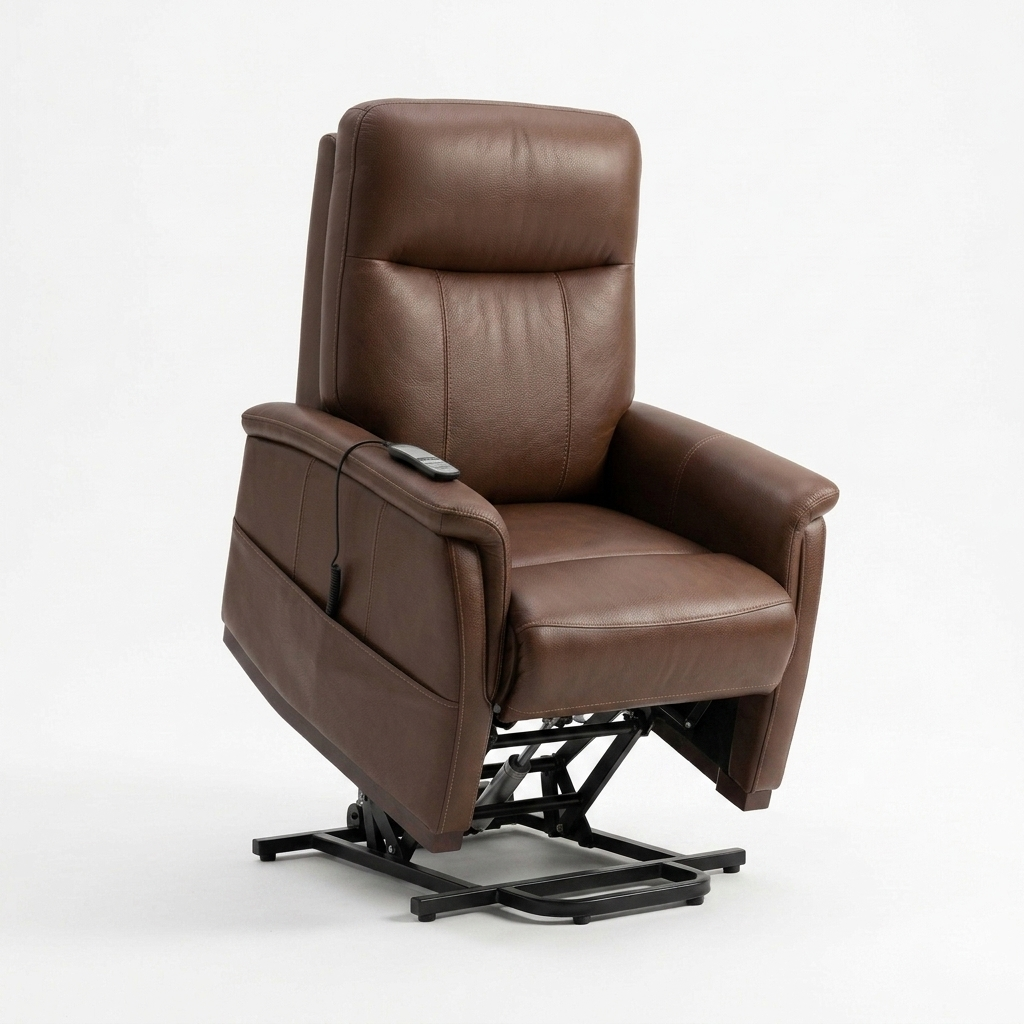
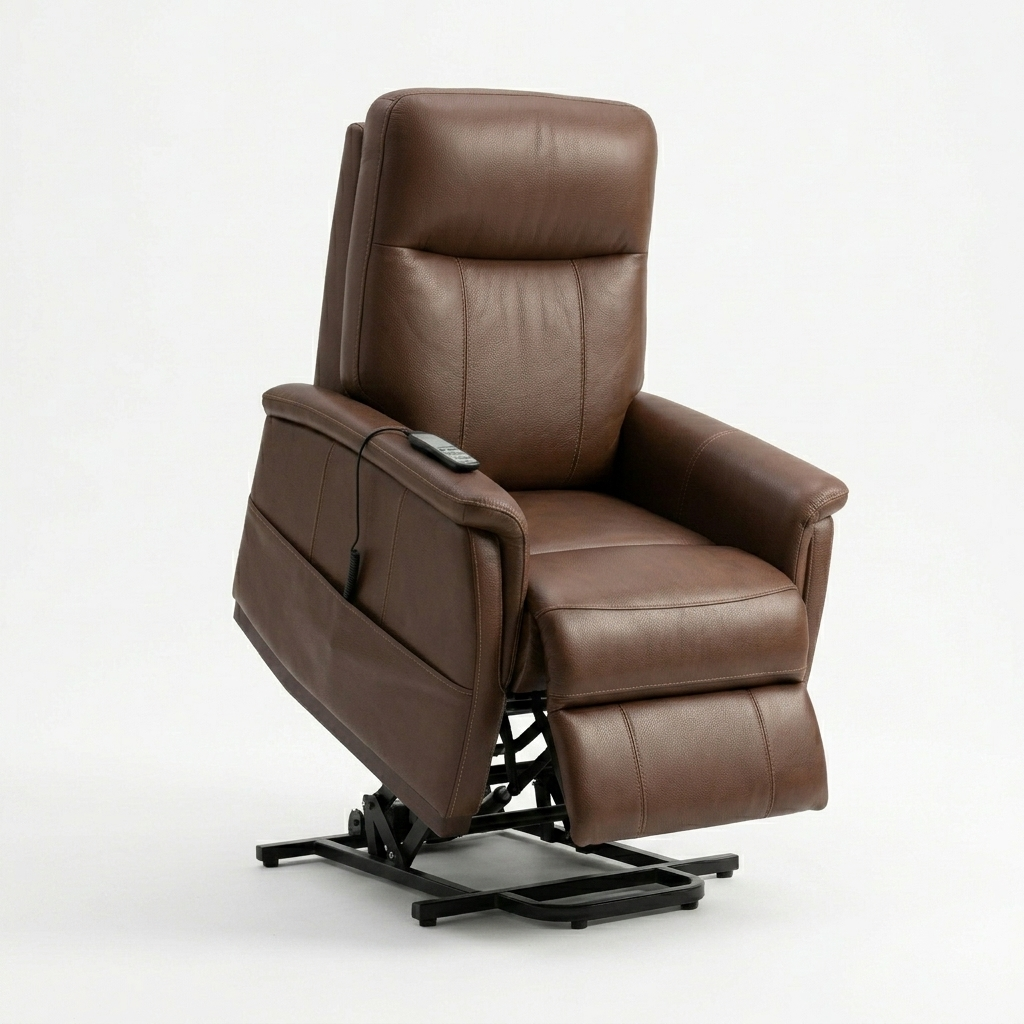
Regenerate elevated stand-up position photo with solid front leather apron fully present, and bump version to 4.8

Changed region(s): [[0.2188, 0.0625, 0.8438, 0.9375]]

diff --git a/beheer.html b/beheer.html
@@ -9,7 +9,7 @@
   <link rel="icon" type="image/png" sizes="32x32" href="favicon-32x32.png">
   <link rel="icon" type="image/png" sizes="16x16" href="favicon-16x16.png">
   <link rel="manifest" href="site.webmanifest">
-  <link rel="stylesheet" href="style.css?v=4.7.51">
+  <link rel="stylesheet" href="style.css?v=4.8.51">
   <style>
     /* Admin Dashboard Specific Styles */
     /* Reset fonts to match website styles */
@@ -536,7 +536,7 @@
       
       <div class="admin-title-row" style="margin-bottom: 16px;">
         <div>
-          <h1 class="admin-title">Sta-op Stoelen Beheer Dashboard <span style="font-size: 0.85rem; font-weight: normal; color: var(--color-gray); background-color: var(--color-cream-dark); padding: 4px 10px; border-radius: var(--radius-sm); margin-left: 12px; border: 1px solid var(--color-gray-light); vertical-align: middle;">v4.7</span></h1>
+          <h1 class="admin-title">Sta-op Stoelen Beheer Dashboard <span style="font-size: 0.85rem; font-weight: normal; color: var(--color-gray); background-color: var(--color-cream-dark); padding: 4px 10px; border-radius: var(--radius-sm); margin-left: 12px; border: 1px solid var(--color-gray-light); vertical-align: middle;">v4.8</span></h1>
           <p style="color: var(--color-gray); margin-top: 4px;">Beheer de catalogus en merken van staopstoelen.nl</p>
         </div>
       </div>

diff --git a/faq.html b/faq.html
@@ -9,7 +9,7 @@
   <link rel="icon" type="image/png" sizes="32x32" href="favicon-32x32.png">
   <link rel="icon" type="image/png" sizes="16x16" href="favicon-16x16.png">
   <link rel="manifest" href="site.webmanifest">
-  <link rel="stylesheet" href="style.css?v=4.7">
+  <link rel="stylesheet" href="style.css?v=4.8">
   <!-- Schema.org LocalBusiness Structured Data -->
   <script type="application/ld+json">
   {
@@ -449,7 +449,7 @@
         &copy; 2026 staopstoelen.nl. Alle rechten voorbehouden.
       </div>
       <div style="font-size: 0.875rem; color: rgba(255,255,255,0.5);">
-        Gerealiseerd door BewegingsTechnologen. | Versie 4.7
+        Gerealiseerd door BewegingsTechnologen. | Versie 4.8
       </div>
     </div>
   </footer>

diff --git a/index.html b/index.html
@@ -9,7 +9,7 @@
   <link rel="icon" type="image/png" sizes="32x32" href="favicon-32x32.png">
   <link rel="icon" type="image/png" sizes="16x16" href="favicon-16x16.png">
   <link rel="manifest" href="site.webmanifest">
-  <link rel="stylesheet" href="style.css?v=4.7">
+  <link rel="stylesheet" href="style.css?v=4.8">
   <!-- Schema.org LocalBusiness Structured Data -->
   <script type="application/ld+json">
   {
@@ -357,7 +357,7 @@
         &copy; 2026 staopstoelen.nl. Alle rechten voorbehouden.
       </div>
       <div style="font-size: 0.875rem; color: rgba(255,255,255,0.5);">
-        Gerealiseerd door BewegingsTechnologen. | Versie 4.7
+        Gerealiseerd door BewegingsTechnologen. | Versie 4.8
       </div>
     </div>
   </footer>

diff --git a/info.html b/info.html
@@ -9,7 +9,7 @@
   <link rel="icon" type="image/png" sizes="32x32" href="favicon-32x32.png">
   <link rel="icon" type="image/png" sizes="16x16" href="favicon-16x16.png">
   <link rel="manifest" href="site.webmanifest">
-  <link rel="stylesheet" href="style.css?v=4.7">
+  <link rel="stylesheet" href="style.css?v=4.8">
   <!-- Schema.org LocalBusiness Structured Data -->
   <script type="application/ld+json">
   {
@@ -381,7 +381,7 @@
         &copy; 2026 staopstoelen.nl. Alle rechten voorbehouden.
       </div>
       <div style="font-size: 0.875rem; color: rgba(255,255,255,0.5);">
-        Gerealiseerd door BewegingsTechnologen. | Versie 4.7
+        Gerealiseerd door BewegingsTechnologen. | Versie 4.8
       </div>
     </div>
   </footer>

diff --git a/winkel.html b/winkel.html
@@ -9,7 +9,7 @@
   <link rel="icon" type="image/png" sizes="32x32" href="favicon-32x32.png">
   <link rel="icon" type="image/png" sizes="16x16" href="favicon-16x16.png">
   <link rel="manifest" href="site.webmanifest">
-  <link rel="stylesheet" href="style.css?v=4.7">
+  <link rel="stylesheet" href="style.css?v=4.8">
   <style>
     .gallery-grid {
       display: grid;
@@ -343,7 +343,7 @@
         &copy; 2026 staopstoelen.nl. Alle rechten voorbehouden.
       </div>
       <div style="font-size: 0.875rem; color: rgba(255,255,255,0.5);">
-        Gerealiseerd door BewegingsTechnologen. | Versie 4.7
+        Gerealiseerd door BewegingsTechnologen. | Versie 4.8
       </div>
     </div>
   </footer>

diff --git a/seniorenstoelen.html b/seniorenstoelen.html
@@ -9,7 +9,7 @@
   <link rel="icon" type="image/png" sizes="32x32" href="favicon-32x32.png">
   <link rel="icon" type="image/png" sizes="16x16" href="favicon-16x16.png">
   <link rel="manifest" href="site.webmanifest">
-  <link rel="stylesheet" href="style.css?v=4.7">
+  <link rel="stylesheet" href="style.css?v=4.8">
   <style>
 
     .catalog-layout {
@@ -346,7 +346,7 @@
         &copy; 2026 staopstoelen.nl. Alle rechten voorbehouden.
       </div>
       <div style="font-size: 0.875rem; color: rgba(255,255,255,0.5);">
-        Gerealiseerd door BewegingsTechnologen. | Versie 4.7
+        Gerealiseerd door BewegingsTechnologen. | Versie 4.8
       </div>
     </div>
   </footer>

diff --git a/staopstoelen.html b/staopstoelen.html
@@ -9,7 +9,7 @@
   <link rel="icon" type="image/png" sizes="32x32" href="favicon-32x32.png">
   <link rel="icon" type="image/png" sizes="16x16" href="favicon-16x16.png">
   <link rel="manifest" href="site.webmanifest">
-  <link rel="stylesheet" href="style.css?v=4.7">
+  <link rel="stylesheet" href="style.css?v=4.8">
   <style>
 
     .catalog-layout {
@@ -346,7 +346,7 @@
         &copy; 2026 staopstoelen.nl. Alle rechten voorbehouden.
       </div>
       <div style="font-size: 0.875rem; color: rgba(255,255,255,0.5);">
-        Gerealiseerd door BewegingsTechnologen. | Versie 4.7
+        Gerealiseerd door BewegingsTechnologen. | Versie 4.8
       </div>
     </div>
   </footer>

diff --git a/afspraak.html b/afspraak.html
@@ -9,7 +9,7 @@
   <link rel="icon" type="image/png" sizes="32x32" href="favicon-32x32.png">
   <link rel="icon" type="image/png" sizes="16x16" href="favicon-16x16.png">
   <link rel="manifest" href="site.webmanifest">
-  <link rel="stylesheet" href="style.css?v=4.7">
+  <link rel="stylesheet" href="style.css?v=4.8">
 </head>
 <body>
 
@@ -318,7 +318,7 @@
         &copy; 2026 staopstoelen.nl. Alle rechten voorbehouden.
       </div>
       <div style="font-size: 0.875rem; color: rgba(255,255,255,0.5);">
-        Gerealiseerd door BewegingsTechnologen. | Versie 4.7
+        Gerealiseerd door BewegingsTechnologen. | Versie 4.8
       </div>
     </div>
   </footer>

diff --git a/ervaringen.html b/ervaringen.html
@@ -9,7 +9,7 @@
   <link rel="icon" type="image/png" sizes="32x32" href="favicon-32x32.png">
   <link rel="icon" type="image/png" sizes="16x16" href="favicon-16x16.png">
   <link rel="manifest" href="site.webmanifest">
-  <link rel="stylesheet" href="style.css?v=4.7">
+  <link rel="stylesheet" href="style.css?v=4.8">
 </head>
 <body>
 
@@ -265,7 +265,7 @@
         &copy; 2026 staopstoelen.nl. Alle rechten voorbehouden.
       </div>
       <div style="font-size: 0.875rem; color: rgba(255,255,255,0.5);">
-        Gerealiseerd door BewegingsTechnologen. | Versie 4.7
+        Gerealiseerd door BewegingsTechnologen. | Versie 4.8
       </div>
     </div>
   </footer>

diff --git a/keuzehulp.html b/keuzehulp.html
@@ -9,7 +9,7 @@
   <link rel="icon" type="image/png" sizes="32x32" href="favicon-32x32.png">
   <link rel="icon" type="image/png" sizes="16x16" href="favicon-16x16.png">
   <link rel="manifest" href="site.webmanifest">
-  <link rel="stylesheet" href="style.css?v=4.7">
+  <link rel="stylesheet" href="style.css?v=4.8">
 </head>
 <body>
 
@@ -334,7 +334,7 @@
         &copy; 2026 staopstoelen.nl. Alle rechten voorbehouden.
       </div>
       <div style="font-size: 0.875rem; color: rgba(255,255,255,0.5);">
-        Gerealiseerd door BewegingsTechnologen. | Versie 4.7
+        Gerealiseerd door BewegingsTechnologen. | Versie 4.8
       </div>
     </div>
   </footer>

diff --git a/revisie.html b/revisie.html
@@ -9,7 +9,7 @@
   <link rel="icon" type="image/png" sizes="32x32" href="favicon-32x32.png">
   <link rel="icon" type="image/png" sizes="16x16" href="favicon-16x16.png">
   <link rel="manifest" href="site.webmanifest">
-  <link rel="stylesheet" href="style.css?v=4.7">
+  <link rel="stylesheet" href="style.css?v=4.8">
 </head>
 <body>
 
@@ -257,7 +257,7 @@
         &copy; 2026 staopstoelen.nl. Alle rechten voorbehouden.
       </div>
       <div style="font-size: 0.875rem; color: rgba(255,255,255,0.5);">
-        Gerealiseerd door BewegingsTechnologen. | Versie 4.7
+        Gerealiseerd door BewegingsTechnologen. | Versie 4.8
       </div>
     </div>
   </footer>
